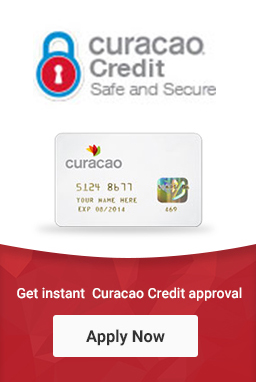
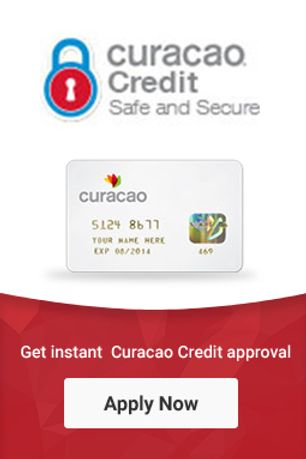
committing the changes made on the homepage - bugfix

diff --git a/app/design/frontend/Dyode/curacao/Magento_Theme/web/css/source/_extend.less b/app/design/frontend/Dyode/curacao/Magento_Theme/web/css/source/_extend.less
@@ -495,7 +495,7 @@
               }
             }
             .side-banner {
-                width: 25%;
+                width: 22%;
                 box-shadow: 0 0px 10px @box-shadow-color;
                 background-color: white;
                 img {
@@ -777,21 +777,21 @@
                     p.price {
                         text-align: center;
                         margin-bottom: 15px;
+												color: black;
+												font-size: 18px;
+												@media screen and (max-width: 768px) {
+														font-size: 14px;
+												}
                         .original-price {
-                            color: #888888;
-                            text-decoration: line-through;
-                            margin-right: 15px;
-                            font-size: 16px;
-                            @media screen and (max-width: 768px) {
-                                font-size: 12px;
-                            }
-                        }
-                        .discount-price {
-                            color: black;
-                            font-size: 18px;
-                            @media screen and (max-width: 768px) {
-                                font-size: 14px;
-                            }
+													&.has-special-price{
+														color: #888888;
+														text-decoration: line-through;
+														margin-right: 15px;
+														font-size: 16px;
+														@media screen and (max-width: 768px) {
+																font-size: 12px;
+														}
+													}
                         }
                     }
                     p.subtext {
@@ -824,6 +824,7 @@
           }
           .block-viewed-products-grid,.block-products-list{
             .product-items{
+							margin-left:0;
               .product-item{
                 width:100% !important;
                 .product-image-container{

diff --git a/app/design/frontend/Dyode/curacao/web/css/source/_footer.less b/app/design/frontend/Dyode/curacao/web/css/source/_footer.less
@@ -6,6 +6,9 @@ footer {
     padding: 40px;
     padding-bottom: 0;
     margin-top: 0;
+    @media all and (max-width:767px){
+      padding: 20px;
+    }
     .footer {
       max-width: 1500px;
       margin: 0px auto;
@@ -173,7 +176,6 @@ footer {
 
                   input {
                     margin-top: 0;
-                    min-width: 260px;
                     font-family: 'iCuracao-Light';
                     padding: 10px 5px 10px 10px;
                     background-color: #e7e7e7;
@@ -194,12 +196,13 @@ footer {
 
               .actions {
                 position: absolute;
-                right: 80px;
+                right: 74px;
                 bottom: 0;
 
                 button {
                   border: none;
                   background-color: #81b800;
+                  height:37px;
                   color: white;
                   padding: 10px 11px;
                   border-radius: 0 2px 2px 0;
